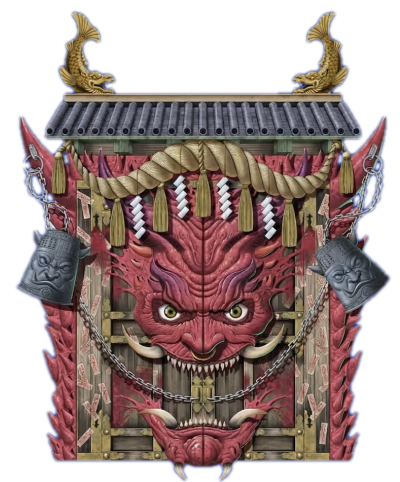
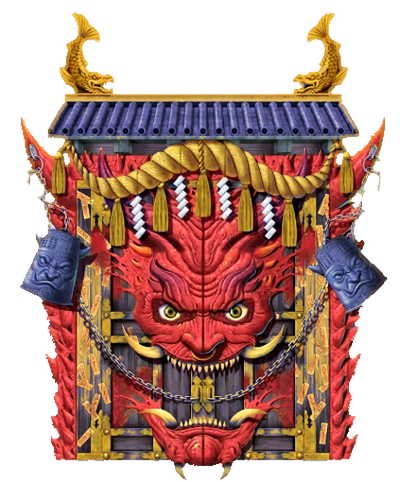
Keep original Oni gate and adjust it to fit the sanctuary scene with moonlight rim lighting and pedestal seating

diff --git a/apps/web/src/styles/custom-pages.css b/apps/web/src/styles/custom-pages.css
@@ -578,11 +578,11 @@
   opacity: 0.85;
 }
 
-/* Centerpiece Gate — Torii shrine gate themed to the stone sanctuary and harvest moon */
+/* Centerpiece Oni Gate — adjusted and harmonized to the stone sanctuary and harvest moon */
 .bk-oni-wrapper,
 .bk-gate-wrapper {
   position: absolute;
-  top: 53.6%;
+  top: 55.5%;
   left: 50%;
   transform: translate(-50%, -50%);
   z-index: 20;
@@ -598,10 +598,10 @@
 .bk-gate-pedestal-shadow {
   position: absolute;
   bottom: 0%;
-  left: 6%;
-  right: 6%;
+  left: 2%;
+  right: 2%;
   height: 18%;
-  background: radial-gradient(ellipse at 50% 50%, rgba(8, 4, 16, 0.95) 0%, rgba(12, 5, 22, 0.6) 50%, transparent 75%);
+  background: radial-gradient(ellipse at 50% 50%, rgba(6, 2, 12, 0.98) 0%, rgba(10, 4, 18, 0.75) 45%, transparent 75%);
   border-radius: 50%;
   pointer-events: none;
   filter: blur(10px);
@@ -611,11 +611,14 @@
 .bk-oni-ambient-aura,
 .bk-gate-ambient-aura {
   position: absolute;
-  inset: -12%;
-  background: radial-gradient(circle at 50% 50%, rgba(245, 158, 11, 0.26) 0%, rgba(220, 38, 38, 0.16) 42%, transparent 72%);
+  top: 5%;
+  left: -10%;
+  right: -10%;
+  height: 80%;
+  background: radial-gradient(ellipse at 50% 42%, rgba(245, 158, 11, 0.3) 0%, rgba(220, 38, 38, 0.18) 40%, rgba(88, 28, 135, 0.12) 65%, transparent 80%);
   border-radius: 50%;
   pointer-events: none;
-  filter: blur(24px);
+  filter: blur(28px);
   z-index: 0;
   animation: bk-oniShrineAura 5s ease-in-out infinite alternate;
 }
@@ -636,19 +639,19 @@
 .bk-torii-graphic {
   position: relative;
   z-index: 2;
-  width: clamp(320px, min(36vw, 50vh), 500px);
+  width: clamp(280px, min(32vw, 43vh), 420px);
   height: auto;
-  filter: drop-shadow(0 14px 28px rgba(0, 0, 0, 0.78))
-         drop-shadow(0 0 25px rgba(245, 158, 11, 0.35))
-         drop-shadow(0 0 50px rgba(220, 38, 38, 0.22));
+  filter: drop-shadow(0 18px 28px rgba(4, 2, 8, 0.88))
+         drop-shadow(0 0 24px rgba(245, 158, 11, 0.35))
+         drop-shadow(0 0 48px rgba(220, 38, 38, 0.22));
 }
 
 .bk-oni-graphic.bk-oni-themed,
 .bk-torii-graphic {
-  filter: drop-shadow(0 14px 28px rgba(0, 0, 0, 0.82))
-         drop-shadow(0 0 26px rgba(245, 158, 11, 0.4))
-         drop-shadow(0 0 52px rgba(220, 38, 38, 0.24))
-         contrast(1.04) brightness(1.02);
+  filter: drop-shadow(0 18px 28px rgba(4, 2, 8, 0.92))
+         drop-shadow(0 0 26px rgba(245, 158, 11, 0.38))
+         drop-shadow(0 0 54px rgba(220, 38, 38, 0.25))
+         contrast(1.04) brightness(1.01);
 }
 
 /* Static variant: pure scenery, no pointer affordance, no motion */

diff --git a/apps/web/src/shell/QuestMapHub.jsx b/apps/web/src/shell/QuestMapHub.jsx
@@ -4,9 +4,9 @@ import FloatingLeaves from '../components/FloatingLeaves.jsx'
 
 /**
  * Pre-sorting dashboard — the onboarding scene: sanctum background, floating
- * leaves, and the Torii Gate as static centerpiece art, matching the Japanese
- * sanctum theme. The INTRODUCTION banner itself is the button that toggles to the
- * introduction page.
+ * leaves, and the Oni Gate as static centerpiece art, adjusted and harmonized
+ * to the sanctum stone pedestal & harvest moon scene. The INTRODUCTION banner
+ * itself is the button that toggles to the introduction page.
  */
 export default function QuestMapHub({ user }) {
   const nav = useNavigate()
@@ -40,14 +40,14 @@ export default function QuestMapHub({ user }) {
         Welcome, {user?.username || 'Initiate'} — face the gate to begin.
       </p>
 
-      {/* The Sanctum Torii Gate — themed to match the sanctum stone pedestal & crimson harvest moon */}
-      <div className="bk-gate-wrapper bk-gate-static bk-oni-wrapper bk-oni-static bk-oni-still">
-        <div className="bk-gate-pedestal-shadow bk-oni-pedestal-shadow" aria-hidden="true" />
-        <div className="bk-gate-ambient-aura bk-oni-ambient-aura" aria-hidden="true" />
+      {/* The Oni Gate — harmonized to match the sanctum stone pedestal & crimson harvest moon */}
+      <div className="bk-oni-wrapper bk-oni-static bk-oni-still">
+        <div className="bk-oni-pedestal-shadow" aria-hidden="true" />
+        <div className="bk-oni-ambient-aura" aria-hidden="true" />
         <img
-          src="/assets/gateways/gate_03_red_torii.png"
-          alt="Sanctum Torii Gate"
-          className="bk-gate-graphic bk-torii-graphic bk-oni-graphic bk-oni-themed"
+          src="/assets/oni-mask.png"
+          alt="Oni Gate"
+          className="bk-oni-graphic bk-oni-themed"
         />
       </div>
     </div>

diff --git a/apps/web/src/pages/Dashboard.jsx b/apps/web/src/pages/Dashboard.jsx
@@ -11,7 +11,7 @@ import ThemeStage from '../shell/styles/themes/ThemeStage.jsx'
 import DungeonsComing from '../shell/DungeonsComing.jsx'
 
 // State machine:
-//  A) introComplete=false            -> sanctum scene with the Torii gate
+//  A) introComplete=false            -> sanctum scene with the Oni gate
 //  B) introComplete=true, sorted=false, returning -> run sorting ceremony
 //  C) sorted=true                    -> full house-themed hub
 export default function Dashboard() {
